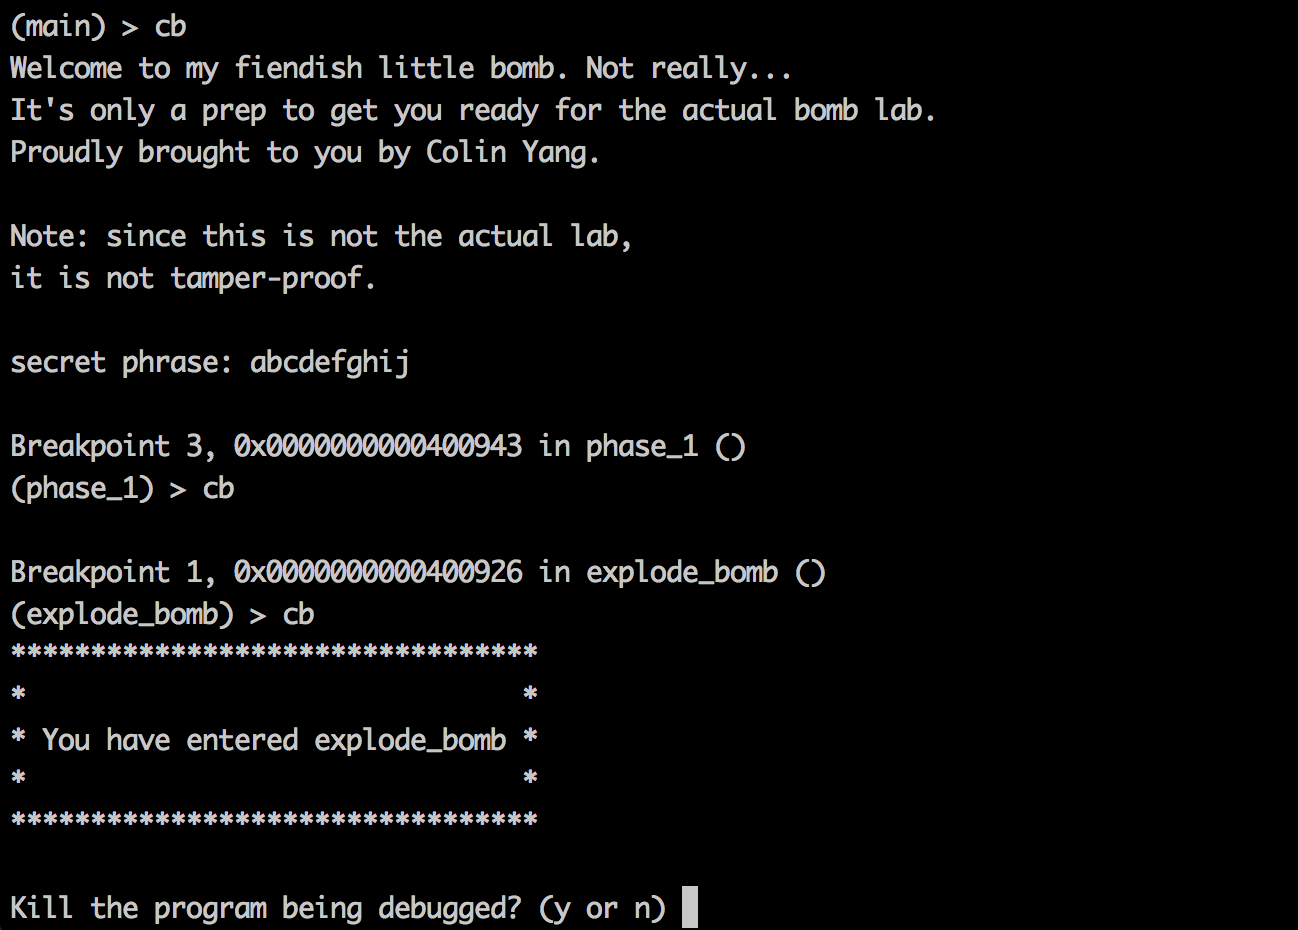
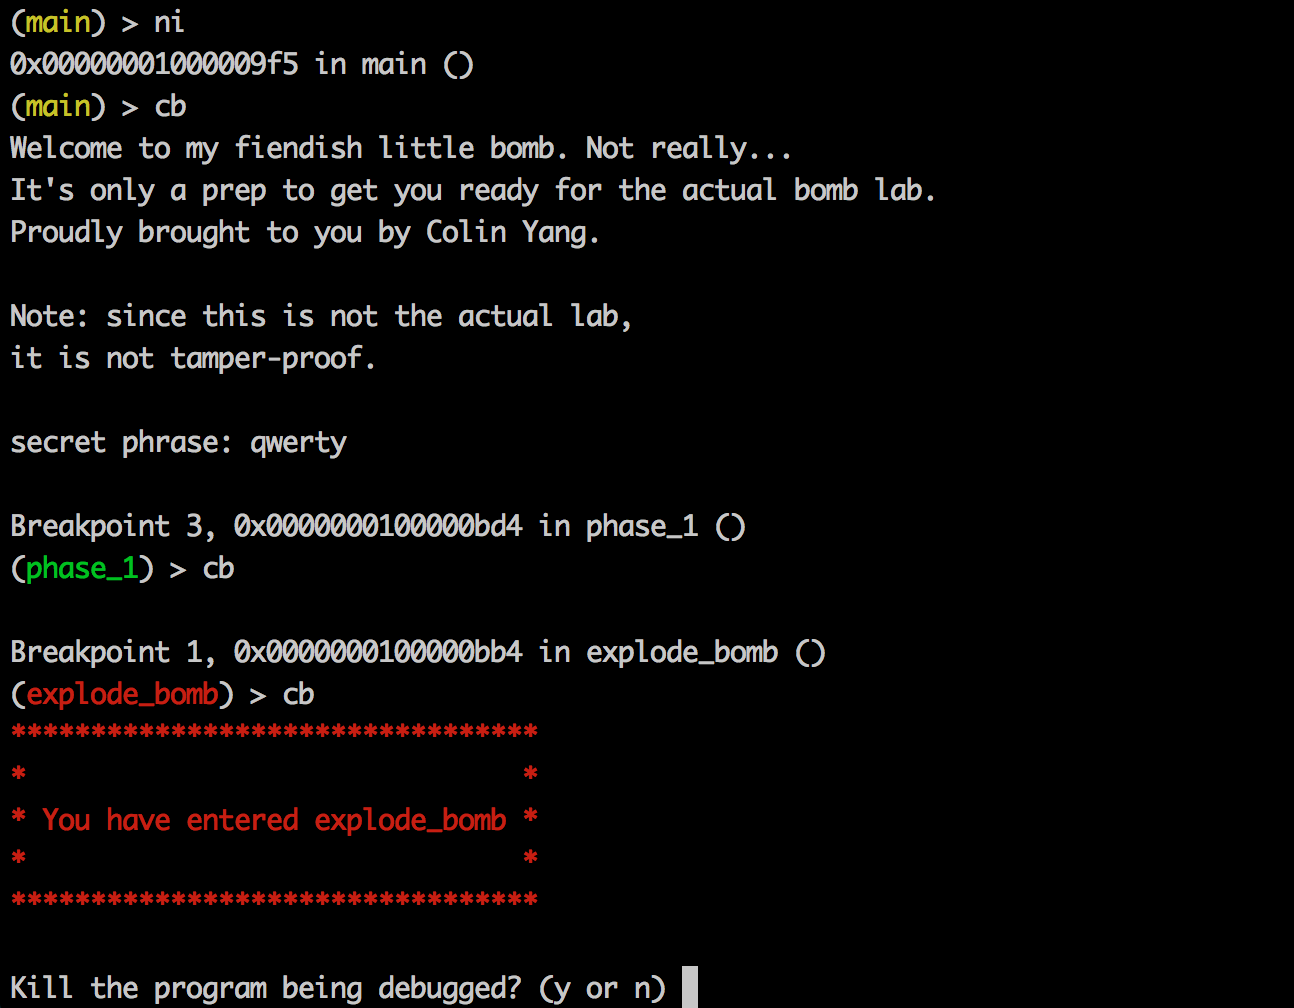
update prompt color

Changed region(s): [[0.0, 0.0, 0.711, 0.9043], [0.0, 0.9355, 0.5564, 1.0]]

diff --git a/gdb_prompt.py b/gdb_prompt.py
@@ -41,6 +41,8 @@ class ExtendedPrompt(gdb.Parameter):
                 frame_name = "\033[0;31m" + frame_name + "\033[0m"
             elif "phase" in frame_name:  # green prompt
                 frame_name = "\033[0;32m" + frame_name + "\033[0m"
+            else:               # yellow prompt
+                frame_name = "\033[0;33m" + frame_name + "\033[0m"
 
             self.prompt = '(' + frame_name + ') > '
             return self.prompt

diff --git a/kill_bomb.py b/kill_bomb.py
@@ -22,7 +22,8 @@ class ContinueBomb(gdb.Command):
 
     def invoke(self, arg, from_tty):
         try:
-            if gdb.selected_frame().name() == "explode_bomb":
+            frame_name = gdb.selected_frame().name()
+            if frame_name == "explode_bomb":
                 print("\033[0;31m"
                       "*********************************\n"
                       "*                               *\n"
